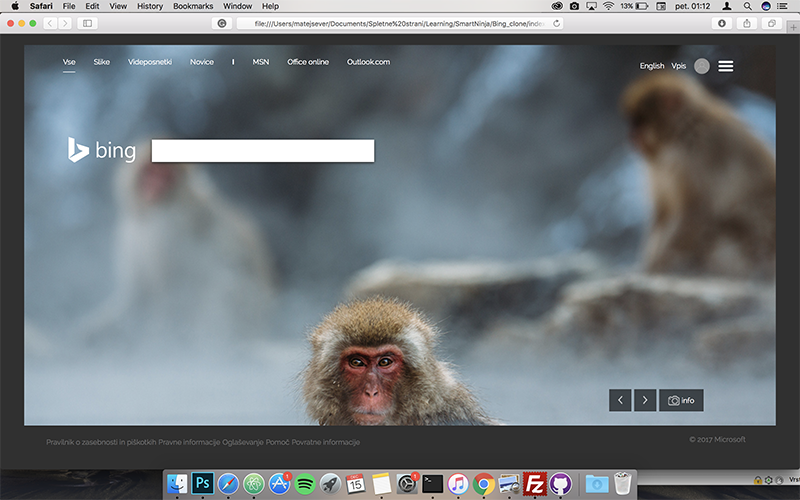
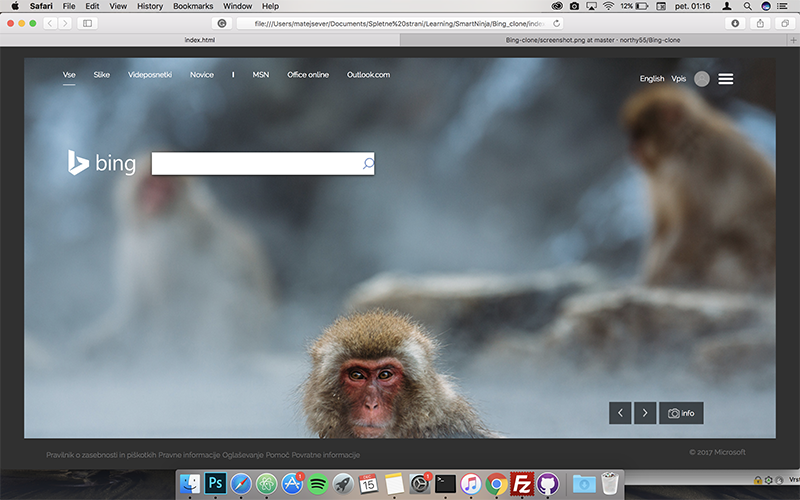
Final-screenshoot

diff --git a/style.css b/style.css
@@ -99,7 +99,7 @@ input[type="text"] {
     box-shadow: 0px 2px 5px 0px #303030;
     font-size: 16px;
     background-color: white;
-    background-image: url('search_icon.png');
+    background-image: url('src/search_icon.png');
     background-position: right;
     background-repeat: no-repeat;
     margin-right:20px;
